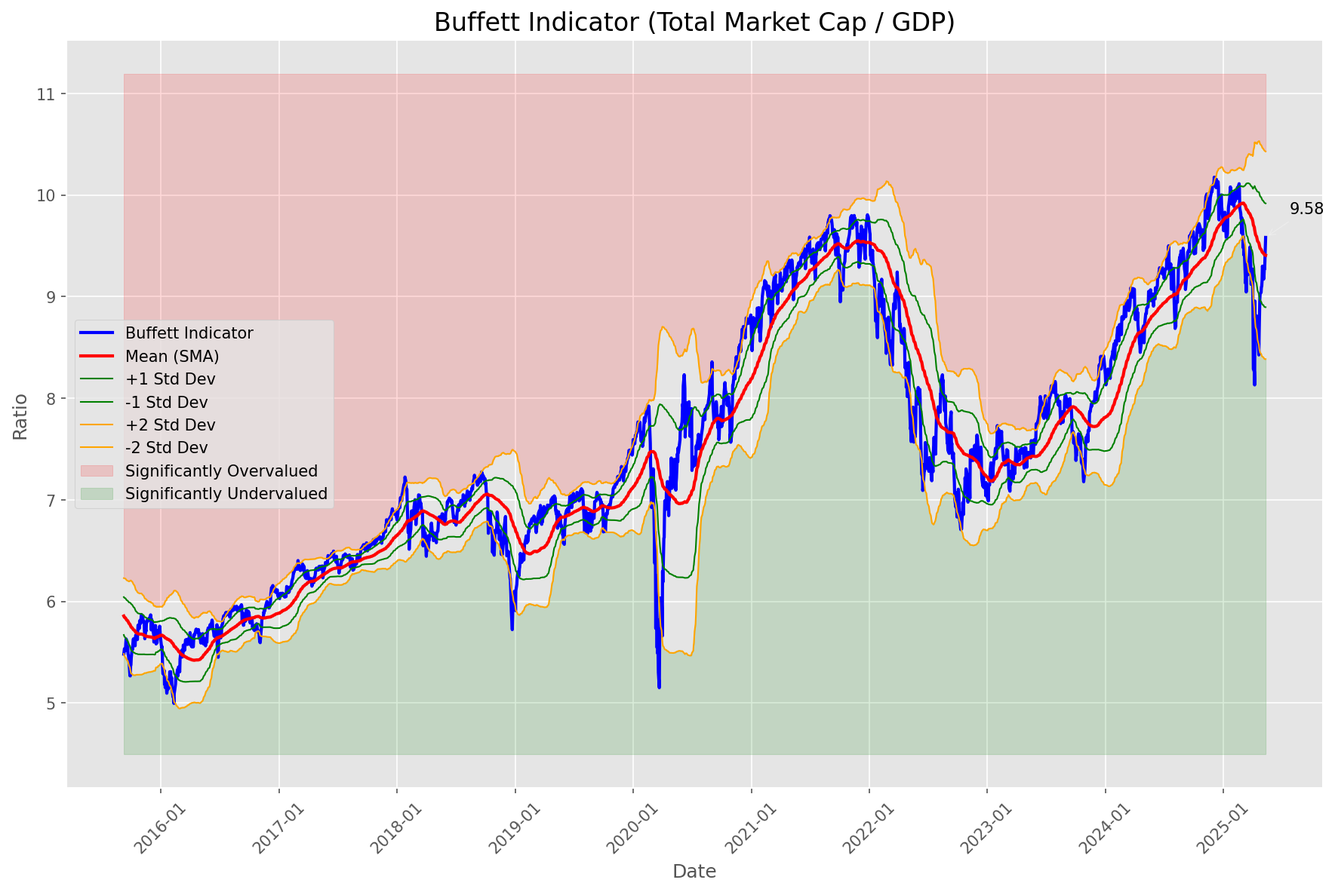
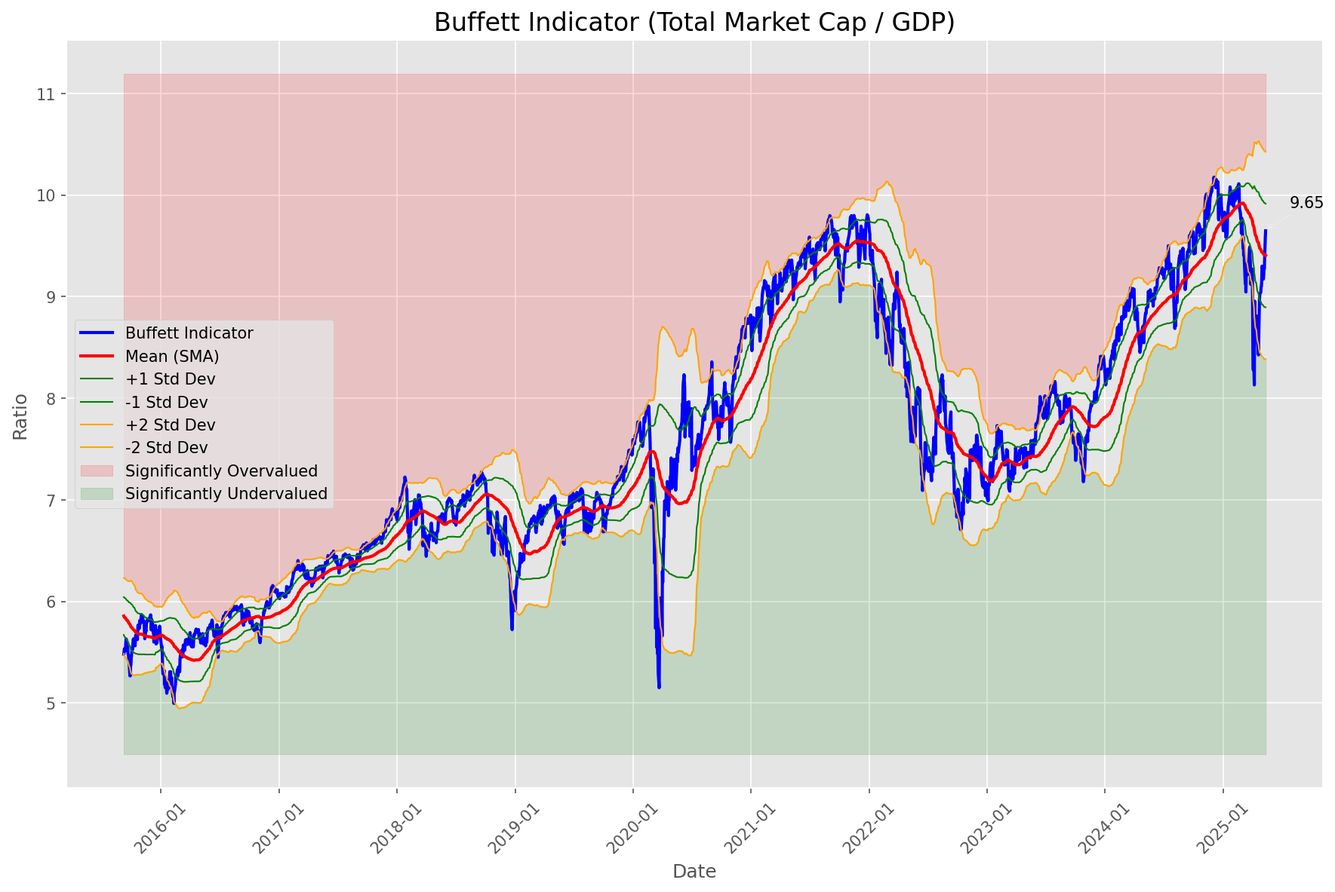
Add market report for 2025-05-14

diff --git a/oneil_relative_strength_report_2025-05-14.md b/oneil_relative_strength_report_2025-05-14.md
@@ -12,8 +12,8 @@
 | **Current Ratio** | 9.65 |
 | **Historical Mean** | 9.41 |
 | **Standard Deviation** | 0.51 |
-| **Z-Score (StdDev from Mean)** | 0.34 |
-| **Total Market Cap** | $289.22 trillion |
+| **Z-Score (StdDev from Mean)** | 0.48 |
+| **Total Market Cap** | $289.21 trillion |
 | **GDP** | $29.98 trillion |
 
 ## **Market Insights**
@@ -49,41 +49,41 @@ Based on William O'Neil's Relative Strength Methodology
 
 | ETF | Strength | RS Rating | Performance | Above Key MAs | Trend | Sector |
 |-----|----------|-----------|-------------|--------------|-------|--------|
-| [KWEB](https://www.tradingview.com/chart/?symbol=KWEB) | 91.0 | 82.0 | 5.67% | 10d ✓, 50d ✓, 200d ✓ | ↗ | Chinese Internet |
-| [SLV](https://www.tradingview.com/chart/?symbol=SLV) | 88.0 | 76.0 | 3.21% | 10d ✓, 50d ✓, 200d ✓ | ↗ | Silver |
+| [KWEB](https://www.tradingview.com/chart/?symbol=KWEB) | 89.0 | 78.0 | 3.82% | 10d ✓, 50d ✓, 200d ✓ | ↗ | Chinese Internet |
 | [XLI](https://www.tradingview.com/chart/?symbol=XLI) | 86.5 | 73.0 | 1.93% | 10d ✓, 50d ✓, 200d ✓ | ↗ | Industrial |
-| [GLD](https://www.tradingview.com/chart/?symbol=GLD) | 86.1 | 92.0 | 11.99% | 10d ✗, 50d ✓, 200d ✓ | ↗ | Gold |
-| [CIBR](https://www.tradingview.com/chart/?symbol=CIBR) | 84.0 | 68.0 | 0.60% | 10d ✓, 50d ✓, 200d ✓ | ↗ | Cybersecurity |
+| [GLD](https://www.tradingview.com/chart/?symbol=GLD) | 85.1 | 90.0 | 9.69% | 10d ✗, 50d ✓, 200d ✓ | ↗ | Gold |
+| [PAVE](https://www.tradingview.com/chart/?symbol=PAVE) | 84.0 | 68.0 | 0.58% | 10d ✓, 50d ✓, 200d ✓ | ↗ | Infrastructure |
 | [IYZ](https://www.tradingview.com/chart/?symbol=IYZ) | 83.5 | 67.0 | 0.32% | 10d ✓, 50d ✓, 200d ✓ | ↗ | Telecommunications |
-| [PAVE](https://www.tradingview.com/chart/?symbol=PAVE) | 81.0 | 62.0 | -0.43% | 10d ✓, 50d ✓, 200d ✓ | ↗ | Infrastructure |
-| [XLF](https://www.tradingview.com/chart/?symbol=XLF) | 80.0 | 60.0 | -0.89% | 10d ✓, 50d ✓, 200d ✓ | ↗ | Financial |
-| [AIQ](https://www.tradingview.com/chart/?symbol=AIQ) | 78.5 | 57.0 | -1.67% | 10d ✓, 50d ✓, 200d ✓ | ↗ | Artificial Intelligence & Technology |
-| [DBA](https://www.tradingview.com/chart/?symbol=DBA) | 78.0 | 56.0 | -1.83% | 10d ✓, 50d ✓, 200d ✓ | ↗ | Agriculture |
-| [ICLN](https://www.tradingview.com/chart/?symbol=ICLN) | 77.5 | 95.0 | 15.20% | 10d ✓, 50d ✓, 200d ✓ | ↘ | Clean Energy |
-| [BLOK](https://www.tradingview.com/chart/?symbol=BLOK) | 77.5 | 55.0 | -2.11% | 10d ✓, 50d ✓, 200d ✓ | ↗ | Blockchain & Cryptocurrency |
+| [CIBR](https://www.tradingview.com/chart/?symbol=CIBR) | 83.0 | 66.0 | 0.18% | 10d ✓, 50d ✓, 200d ✓ | ↗ | Cybersecurity |
+| [XLF](https://www.tradingview.com/chart/?symbol=XLF) | 80.0 | 60.0 | -0.95% | 10d ✓, 50d ✓, 200d ✓ | ↗ | Financial |
+| [BLOK](https://www.tradingview.com/chart/?symbol=BLOK) | 79.0 | 58.0 | -1.37% | 10d ✓, 50d ✓, 200d ✓ | ↗ | Blockchain & Cryptocurrency |
+| [AIQ](https://www.tradingview.com/chart/?symbol=AIQ) | 79.0 | 58.0 | -1.44% | 10d ✓, 50d ✓, 200d ✓ | ↗ | Artificial Intelligence & Technology |
+| [DBA](https://www.tradingview.com/chart/?symbol=DBA) | 78.5 | 57.0 | -1.83% | 10d ✓, 50d ✓, 200d ✓ | ↗ | Agriculture |
+| [ICLN](https://www.tradingview.com/chart/?symbol=ICLN) | 77.5 | 95.0 | 15.72% | 10d ✓, 50d ✓, 200d ✓ | ↘ | Clean Energy |
 | [ARKF](https://www.tradingview.com/chart/?symbol=ARKF) | 77.0 | 54.0 | -2.40% | 10d ✓, 50d ✓, 200d ✓ | ↗ | Fintech Innovation |
-| [XLC](https://www.tradingview.com/chart/?symbol=XLC) | 75.0 | 50.0 | -3.10% | 10d ✓, 50d ✓, 200d ✓ | ↗ | Communications |
-| [ARKW](https://www.tradingview.com/chart/?symbol=ARKW) | 74.0 | 48.0 | -3.42% | 10d ✓, 50d ✓, 200d ✓ | ↗ | Next Generation Internet |
-| [XLU](https://www.tradingview.com/chart/?symbol=XLU) | 73.6 | 67.0 | 0.33% | 10d ✗, 50d ✓, 200d ✓ | ↗ | Utilities |
-| [XLY](https://www.tradingview.com/chart/?symbol=XLY) | 73.0 | 46.0 | -3.80% | 10d ✓, 50d ✓, 200d ✓ | ↗ | Consumer Discretionary |
+| [XLC](https://www.tradingview.com/chart/?symbol=XLC) | 75.0 | 50.0 | -3.27% | 10d ✓, 50d ✓, 200d ✓ | ↗ | Communications |
+| [ARKW](https://www.tradingview.com/chart/?symbol=ARKW) | 74.5 | 49.0 | -3.42% | 10d ✓, 50d ✓, 200d ✓ | ↗ | Next Generation Internet |
+| [XLY](https://www.tradingview.com/chart/?symbol=XLY) | 74.0 | 48.0 | -3.48% | 10d ✓, 50d ✓, 200d ✓ | ↗ | Consumer Discretionary |
 | [IYT](https://www.tradingview.com/chart/?symbol=IYT) | 70.5 | 41.0 | -5.09% | 10d ✓, 50d ✓, 200d ✓ | ↗ | Transportation |
-| [ARKK](https://www.tradingview.com/chart/?symbol=ARKK) | 68.5 | 37.0 | -6.42% | 10d ✓, 50d ✓, 200d ✓ | ↗ | Innovation |
-| [JETS](https://www.tradingview.com/chart/?symbol=JETS) | 63.5 | 27.0 | -10.08% | 10d ✓, 50d ✓, 200d ✓ | ↗ | Airlines |
-| [XLK](https://www.tradingview.com/chart/?symbol=XLK) | 59.0 | 58.0 | -1.57% | 10d ✓, 50d ✓, 200d ✓ | ↘ | Technology |
-| [URA](https://www.tradingview.com/chart/?symbol=URA) | 56.5 | 53.0 | -2.66% | 10d ✓, 50d ✓, 200d ✓ | ↘ | Uranium |
-| [SOXX](https://www.tradingview.com/chart/?symbol=SOXX) | 56.0 | 52.0 | -2.79% | 10d ✓, 50d ✓, 200d ✓ | ↘ | Semiconductors |
-| [IYR](https://www.tradingview.com/chart/?symbol=IYR) | 54.9 | 50.0 | -3.08% | 10d ✗, 50d ✓, 200d ✗ | ↗ | Real Estate |
-| [XLP](https://www.tradingview.com/chart/?symbol=XLP) | 50.0 | 60.0 | -0.83% | 10d ✗, 50d ✗, 200d ✗ | ↗ | Consumer Staples |
-| [XLB](https://www.tradingview.com/chart/?symbol=XLB) | 43.8 | 48.0 | -3.55% | 10d ✓, 50d ✓, 200d ✗ | ↘ | Materials |
+| [XLU](https://www.tradingview.com/chart/?symbol=XLU) | 70.1 | 60.0 | -0.94% | 10d ✗, 50d ✓, 200d ✓ | ↗ | Utilities |
+| [ARKK](https://www.tradingview.com/chart/?symbol=ARKK) | 66.5 | 33.0 | -8.06% | 10d ✓, 50d ✓, 200d ✓ | ↗ | Innovation |
+| [SLV](https://www.tradingview.com/chart/?symbol=SLV) | 63.2 | 66.0 | 0.10% | 10d ✗, 50d ✗, 200d ✓ | ↗ | Silver |
+| [JETS](https://www.tradingview.com/chart/?symbol=JETS) | 63.0 | 26.0 | -10.44% | 10d ✓, 50d ✓, 200d ✓ | ↗ | Airlines |
+| [XLK](https://www.tradingview.com/chart/?symbol=XLK) | 60.0 | 60.0 | -0.95% | 10d ✓, 50d ✓, 200d ✓ | ↘ | Technology |
+| [SOXX](https://www.tradingview.com/chart/?symbol=SOXX) | 56.5 | 53.0 | -2.73% | 10d ✓, 50d ✓, 200d ✓ | ↘ | Semiconductors |
+| [URA](https://www.tradingview.com/chart/?symbol=URA) | 55.0 | 50.0 | -3.14% | 10d ✓, 50d ✓, 200d ✓ | ↘ | Uranium |
+| [XLP](https://www.tradingview.com/chart/?symbol=XLP) | 49.5 | 59.0 | -1.20% | 10d ✗, 50d ✗, 200d ✗ | ↗ | Consumer Staples |
+| [IYR](https://www.tradingview.com/chart/?symbol=IYR) | 45.0 | 50.0 | -3.22% | 10d ✗, 50d ✗, 200d ✗ | ↗ | Real Estate |
+| [XLB](https://www.tradingview.com/chart/?symbol=XLB) | 42.8 | 46.0 | -4.05% | 10d ✓, 50d ✓, 200d ✗ | ↘ | Materials |
 | [BIL](https://www.tradingview.com/chart/?symbol=BIL) | 42.4 | 65.0 | 0.03% | 10d ✓, 50d ✗, 200d ✗ | ↘ | Short-term Treasuries |
 | [DBC](https://www.tradingview.com/chart/?symbol=DBC) | 41.8 | 44.0 | -4.34% | 10d ✓, 50d ✓, 200d ✗ | ↘ | Commodities |
-| [XLE](https://www.tradingview.com/chart/?symbol=XLE) | 38.8 | 38.0 | -6.00% | 10d ✓, 50d ✓, 200d ✗ | ↘ | Energy |
-| [ITB](https://www.tradingview.com/chart/?symbol=ITB) | 37.3 | 35.0 | -7.25% | 10d ✓, 50d ✓, 200d ✗ | ↘ | Home Construction |
-| [UUP](https://www.tradingview.com/chart/?symbol=UUP) | 29.9 | 40.0 | -5.47% | 10d ✓, 50d ✗, 200d ✗ | ↘ | U.S. Dollar |
-| [ARKG](https://www.tradingview.com/chart/?symbol=ARKG) | 27.3 | 15.0 | -16.06% | 10d ✓, 50d ✓, 200d ✗ | ↘ | Genomics |
-| [TLT](https://www.tradingview.com/chart/?symbol=TLT) | 25.5 | 51.0 | -2.87% | 10d ✗, 50d ✗, 200d ✗ | ↘ | Long-term Treasuries |
-| [XLV](https://www.tradingview.com/chart/?symbol=XLV) | 14.0 | 28.0 | -9.70% | 10d ✗, 50d ✗, 200d ✗ | ↘ | Healthcare |
-| [IBB](https://www.tradingview.com/chart/?symbol=IBB) | 12.5 | 25.0 | -10.96% | 10d ✗, 50d ✗, 200d ✗ | ↘ | Biotechnology |
+| [ITB](https://www.tradingview.com/chart/?symbol=ITB) | 38.3 | 37.0 | -6.52% | 10d ✓, 50d ✓, 200d ✗ | ↘ | Home Construction |
+| [XLE](https://www.tradingview.com/chart/?symbol=XLE) | 31.9 | 44.0 | -4.30% | 10d ✓, 50d ✗, 200d ✗ | ↘ | Energy |
+| [UUP](https://www.tradingview.com/chart/?symbol=UUP) | 29.4 | 39.0 | -5.76% | 10d ✓, 50d ✗, 200d ✗ | ↘ | U.S. Dollar |
+| [TLT](https://www.tradingview.com/chart/?symbol=TLT) | 28.5 | 57.0 | -1.69% | 10d ✗, 50d ✗, 200d ✗ | ↘ | Long-term Treasuries |
+| [ARKG](https://www.tradingview.com/chart/?symbol=ARKG) | 25.8 | 12.0 | -18.75% | 10d ✓, 50d ✓, 200d ✗ | ↘ | Genomics |
+| [XLV](https://www.tradingview.com/chart/?symbol=XLV) | 13.5 | 27.0 | -9.99% | 10d ✗, 50d ✗, 200d ✗ | ↘ | Healthcare |
+| [IBB](https://www.tradingview.com/chart/?symbol=IBB) | 10.5 | 21.0 | -12.48% | 10d ✗, 50d ✗, 200d ✗ | ↘ | Biotechnology |
 
 ### **Sector ETF Performance Interpretation**
 
@@ -98,165 +98,196 @@ This table shows the relative strength metrics for different market sectors base
 
 ### **Current Sector Leadership**
 
-The current market leadership is coming from the following sectors: **Chinese Internet, Silver, Industrial**.
+The current market leadership is coming from the following sectors: **Chinese Internet, Industrial, Gold**.
 
-The **Chinese Internet** sector (represented by **KWEB**) is showing particularly strong relative strength with an RS rating of 82.0 and performance of 5.67% vs. the S&P 500. This sector is trading above its 10-day, 50-day, 200-day moving average(s). Investors should consider focusing on high RS stocks within these leading sectors for potential outperformance.
+The **Chinese Internet** sector (represented by **KWEB**) is showing particularly strong relative strength with an RS rating of 78.0 and performance of 3.82% vs. the S&P 500. This sector is trading above its 10-day, 50-day, 200-day moving average(s). Investors should consider focusing on high RS stocks within these leading sectors for potential outperformance.
 
 ---
 
 ## **Buy Recommendations**
 
-The following 80 stocks show exceptional relative strength:
+The following 81 stocks show exceptional relative strength:
 
 | RS Rating | Buy Score | Current Price | Chart | Name | Ticker |
 |-----------|-----------|---------------|-------|------|--------|
-| 100 | 100 | $156.71 | [Chart](https://www.tradingview.com/chart/?symbol=NRG) | NRG Energy, Inc. | NRG |
-| 100 | 100 | $27.51 | [Chart](https://www.tradingview.com/chart/?symbol=DB) | Deutsche Bank Aktiengesellschaft | DB |
+| 100 | 100 | $44.33 | [Chart](https://www.tradingview.com/chart/?symbol=EXEL) | Exelixis Inc | EXEL |
 | 100 | 100 | $48.33 | [Chart](https://www.tradingview.com/chart/?symbol=MRX) | Marex Group plc Ordinary Shares | MRX |
-| 100 | 100 | $155.68 | [Chart](https://www.tradingview.com/chart/?symbol=PLMR) | Palomar Holdings, Inc. Common stock | PLMR |
+| 100 | 100 | $42.27 | [Chart](https://www.tradingview.com/chart/?symbol=FARO) | Faro Technologies Inc | FARO |
+| 100 | 100 | $91.88 | [Chart](https://www.tradingview.com/chart/?symbol=SEZL) | Sezzle Inc. Common Stock | SEZL |
 | 100 | 100 | $19.54 | [Chart](https://www.tradingview.com/chart/?symbol=SPNT) | SiriusPoint Ltd. | SPNT |
-| 100 | 100 | $90.54 | [Chart](https://www.tradingview.com/chart/?symbol=SEZL) | Sezzle Inc. Common Stock | SEZL |
 | 100 | 100 | $181.76 | [Chart](https://www.tradingview.com/chart/?symbol=DAVE) | Dave Inc. Class A Common Stock | DAVE |
+| 100 | 100 | $27.66 | [Chart](https://www.tradingview.com/chart/?symbol=DB) | Deutsche Bank Aktiengesellschaft | DB |
+| 100 | 100 | $155.68 | [Chart](https://www.tradingview.com/chart/?symbol=PLMR) | Palomar Holdings, Inc. Common stock | PLMR |
+| 100 | 100 | $155.01 | [Chart](https://www.tradingview.com/chart/?symbol=NRG) | NRG Energy, Inc. | NRG |
 | 100 | 100 | $23.00 | [Chart](https://www.tradingview.com/chart/?symbol=PRA) | ProAssurance Corporation | PRA |
-| 99 | 100 | $23.65 | [Chart](https://www.tradingview.com/chart/?symbol=CRK) | Comstock Resources, Inc. | CRK |
-| 99 | 100 | $150.24 | [Chart](https://www.tradingview.com/chart/?symbol=ROOT) | Root, Inc. Class A Common Stock | ROOT |
-| 99 | 100 | $71.14 | [Chart](https://www.tradingview.com/chart/?symbol=ULS) | UL Solutions Inc. | ULS |
+| 99 | 100 | $419.17 | [Chart](https://www.tradingview.com/chart/?symbol=MSTR) | MicroStrategy Inc | MSTR |
+| 99 | 100 | $23.34 | [Chart](https://www.tradingview.com/chart/?symbol=CRK) | Comstock Resources, Inc. | CRK |
 | 99 | 100 | $34.63 | [Chart](https://www.tradingview.com/chart/?symbol=AHR) | American Healthcare REIT, Inc. | AHR |
-| 99 | 100 | $421.61 | [Chart](https://www.tradingview.com/chart/?symbol=MSTR) | MicroStrategy Inc | MSTR |
+| 99 | 100 | $71.14 | [Chart](https://www.tradingview.com/chart/?symbol=ULS) | UL Solutions Inc. | ULS |
 | 99 | 100 | $23.83 | [Chart](https://www.tradingview.com/chart/?symbol=GRND) | Grindr Inc. | GRND |
-| 98 | 100 | $224.52 | [Chart](https://www.tradingview.com/chart/?symbol=CRS) | Carpenter Technology Corp | CRS |
-| 98 | 100 | $41.15 | [Chart](https://www.tradingview.com/chart/?symbol=EWP) | iShares MSCI Spain ETF | EWP |
-| 98 | 100 | $38.17 | [Chart](https://www.tradingview.com/chart/?symbol=PAY) | Paymentus Holdings, Inc. | PAY |
-| 98 | 100 | $158.30 | [Chart](https://www.tradingview.com/chart/?symbol=HWM) | Howmet Aerospace Inc. | HWM |
+| 98 | 100 | $229.29 | [Chart](https://www.tradingview.com/chart/?symbol=CRS) | Carpenter Technology Corp | CRS |
+| 98 | 100 | $145.72 | [Chart](https://www.tradingview.com/chart/?symbol=ROOT) | Root, Inc. Class A Common Stock | ROOT |
 | 98 | 100 | $132.54 | [Chart](https://www.tradingview.com/chart/?symbol=VSEC) | VSE Corp | VSEC |
+| 98 | 100 | $160.65 | [Chart](https://www.tradingview.com/chart/?symbol=SE) | Sea Limited American Depositary Shares, each representing one Class A Ordinary Share | SE |
+| 98 | 100 | $159.14 | [Chart](https://www.tradingview.com/chart/?symbol=HWM) | Howmet Aerospace Inc. | HWM |
+| 98 | 100 | $78.50 | [Chart](https://www.tradingview.com/chart/?symbol=RBLX) | Roblox Corporation | RBLX |
+| 97 | 100 | $41.15 | [Chart](https://www.tradingview.com/chart/?symbol=EWP) | iShares MSCI Spain ETF | EWP |
+| 97 | 100 | $38.17 | [Chart](https://www.tradingview.com/chart/?symbol=PAY) | Paymentus Holdings, Inc. | PAY |
 | 97 | 100 | $127.55 | [Chart](https://www.tradingview.com/chart/?symbol=ATGE) | Adtalem Global Education Inc. Common Shares | ATGE |
-| 97 | 100 | $154.13 | [Chart](https://www.tradingview.com/chart/?symbol=SE) | Sea Limited American Depositary Shares, each representing one Class A Ordinary Share | SE |
 | 97 | 100 | $128.35 | [Chart](https://www.tradingview.com/chart/?symbol=COOP) | Mr. Cooper Group Inc. Common Stock | COOP |
-| 96 | 100 | $62.57 | [Chart](https://www.tradingview.com/chart/?symbol=HOOD) | Robinhood Markets, Inc. Class A Common Stock | HOOD |
 | 96 | 100 | $117.61 | [Chart](https://www.tradingview.com/chart/?symbol=EHC) | Encompass Health Corporation Common Stock | EHC |
-| 96 | 100 | $49.40 | [Chart](https://www.tradingview.com/chart/?symbol=ERJ) | Embraer S.A. | ERJ |
-| 96 | 100 | $30.81 | [Chart](https://www.tradingview.com/chart/?symbol=EUFN) | iShares MSCI Europe Financials ETF | EUFN |
-| 96 | 100 | $77.02 | [Chart](https://www.tradingview.com/chart/?symbol=RBLX) | Roblox Corporation | RBLX |
+| 96 | 100 | $32.24 | [Chart](https://www.tradingview.com/chart/?symbol=UTI) | Universal Technical Institute, Inc. | UTI |
+| 96 | 100 | $31.05 | [Chart](https://www.tradingview.com/chart/?symbol=EUFN) | iShares MSCI Europe Financials ETF | EUFN |
 | 95 | 100 | $28.00 | [Chart](https://www.tradingview.com/chart/?symbol=FMS) | Fresenius Medical Care AG | FMS |
-| 95 | 100 | $33.70 | [Chart](https://www.tradingview.com/chart/?symbol=SLM) | SLM Corporation | SLM |
-| 94 | 100 | $87.50 | [Chart](https://www.tradingview.com/chart/?symbol=TGLS) | Tecnoglass Inc. | TGLS |
+| 95 | 100 | $25.20 | [Chart](https://www.tradingview.com/chart/?symbol=SONY) | Sony Group Corporation American Depositary Shares (Each Representing One Share of Dollar Validated Common Stock) | SONY |
+| 94 | 100 | $33.65 | [Chart](https://www.tradingview.com/chart/?symbol=SLM) | SLM Corporation | SLM |
 | 94 | 100 | $40.59 | [Chart](https://www.tradingview.com/chart/?symbol=EWG) | iShares MSCI Germany ETF | EWG |
-| 94 | 100 | $128.10 | [Chart](https://www.tradingview.com/chart/?symbol=PLTR) | Palantir Technologies Inc. Class A Common Stock | PLTR |
-| 94 | 100 | $18.43 | [Chart](https://www.tradingview.com/chart/?symbol=AM) | Antero Midstream Corporation Common Stock | AM |
-| 94 | 100 | $83.10 | [Chart](https://www.tradingview.com/chart/?symbol=RBRK) | Rubrik, Inc. | RBRK |
 | 94 | 100 | $40.91 | [Chart](https://www.tradingview.com/chart/?symbol=AB) | AllianceBernstein Holding, L.P. | AB |
+| 94 | 100 | $307.15 | [Chart](https://www.tradingview.com/chart/?symbol=CVNA) | Carvana Co. | CVNA |
+| 94 | 100 | $79.67 | [Chart](https://www.tradingview.com/chart/?symbol=LB) | LandBridge Company LLC | LB |
+| 93 | 100 | $44.62 | [Chart](https://www.tradingview.com/chart/?symbol=TOST) | Toast, Inc. | TOST |
+| 93 | 100 | $62.90 | [Chart](https://www.tradingview.com/chart/?symbol=HOOD) | Robinhood Markets, Inc. Class A Common Stock | HOOD |
 | 93 | 100 | $22.47 | [Chart](https://www.tradingview.com/chart/?symbol=LAUR) | Laureate Education, Inc. Common Stock | LAUR |
-| 93 | 100 | $1138.44 | [Chart](https://www.tradingview.com/chart/?symbol=NFLX) | NetFlix Inc | NFLX |
+| 93 | 100 | $83.46 | [Chart](https://www.tradingview.com/chart/?symbol=TGLS) | Tecnoglass Inc. | TGLS |
 | 93 | 100 | $61.28 | [Chart](https://www.tradingview.com/chart/?symbol=CHEF) | The Chef's Warehouse Inc | CHEF |
-| 93 | 100 | $31.67 | [Chart](https://www.tradingview.com/chart/?symbol=UTI) | Universal Technical Institute, Inc. | UTI |
-| 92 | 100 | $46.05 | [Chart](https://www.tradingview.com/chart/?symbol=QFIN) | Qifu Technology, Inc. American Depositary Shares | QFIN |
-| 92 | 100 | $17.00 | [Chart](https://www.tradingview.com/chart/?symbol=BCS) | Barclays PLC | BCS |
-| 92 | 100 | $24.65 | [Chart](https://www.tradingview.com/chart/?symbol=BSAC) | Banco Santander-Chile | BSAC |
+| 92 | 100 | $1151.02 | [Chart](https://www.tradingview.com/chart/?symbol=NFLX) | NetFlix Inc | NFLX |
+| 92 | 100 | $298.70 | [Chart](https://www.tradingview.com/chart/?symbol=PEN) | Penumbra, Inc. | PEN |
+| 92 | 100 | $17.13 | [Chart](https://www.tradingview.com/chart/?symbol=BCS) | Barclays PLC | BCS |
 | 92 | 100 | $104.72 | [Chart](https://www.tradingview.com/chart/?symbol=RBA) | RB Global, Inc. | RBA |
+| 92 | 100 | $24.65 | [Chart](https://www.tradingview.com/chart/?symbol=BSAC) | Banco Santander-Chile | BSAC |
+| 91 | 100 | $29.67 | [Chart](https://www.tradingview.com/chart/?symbol=HODL) | VanEck Bitcoin ETF | HODL |
 | 91 | 100 | $314.46 | [Chart](https://www.tradingview.com/chart/?symbol=PODD) | Insulet Corporation | PODD |
-| 91 | 100 | $78.95 | [Chart](https://www.tradingview.com/chart/?symbol=LB) | LandBridge Company LLC | LB |
-| 90 | 100 | $296.05 | [Chart](https://www.tradingview.com/chart/?symbol=PEN) | Penumbra, Inc. | PEN |
-| 90 | 100 | $31.31 | [Chart](https://www.tradingview.com/chart/?symbol=PRDO) | Perdoceo Education Corporation | PRDO |
+| 91 | 100 | $31.31 | [Chart](https://www.tradingview.com/chart/?symbol=PRDO) | Perdoceo Education Corporation | PRDO |
+| 91 | 100 | $129.88 | [Chart](https://www.tradingview.com/chart/?symbol=PLTR) | Palantir Technologies Inc. Class A Common Stock | PLTR |
 | 90 | 100 | $52.36 | [Chart](https://www.tradingview.com/chart/?symbol=EPR) | EPR Properties | EPR |
-| 89 | 100 | $43.96 | [Chart](https://www.tradingview.com/chart/?symbol=TOST) | Toast, Inc. | TOST |
-| 89 | 100 | $95.18 | [Chart](https://www.tradingview.com/chart/?symbol=HEES) | H&E Equipment Services, Inc. | HEES |
-| 89 | 100 | $23.33 | [Chart](https://www.tradingview.com/chart/?symbol=SRAD) | Sportradar Group AG Class A Ordinary Shares | SRAD |
-| 88 | 100 | $25.21 | [Chart](https://www.tradingview.com/chart/?symbol=EWS) | iShares MSCI Singapore ETF | EWS |
-| 90 | 99 | $59.62 | [Chart](https://www.tradingview.com/chart/?symbol=IBIT) | iShares Bitcoin Trust ETF | IBIT |
-| 90 | 99 | $29.67 | [Chart](https://www.tradingview.com/chart/?symbol=HODL) | VanEck Bitcoin ETF | HODL |
-| 89 | 99 | $70.23 | [Chart](https://www.tradingview.com/chart/?symbol=BROS) | Dutch Bros Inc. | BROS |
-| 87 | 99 | $724.77 | [Chart](https://www.tradingview.com/chart/?symbol=AXON) | Axon Enterprise, Inc. Common Stock | AXON |
-| 88 | 98 | $13.37 | [Chart](https://www.tradingview.com/chart/?symbol=CNH) | CNH INDUSTRIAL N.V. | CNH |
+| 90 | 100 | $95.18 | [Chart](https://www.tradingview.com/chart/?symbol=HEES) | H&E Equipment Services, Inc. | HEES |
+| 90 | 100 | $70.94 | [Chart](https://www.tradingview.com/chart/?symbol=BROS) | Dutch Bros Inc. | BROS |
+| 89 | 100 | $227.50 | [Chart](https://www.tradingview.com/chart/?symbol=TTWO) | Take-Two Interactive Software Inc | TTWO |
+| 89 | 100 | $23.68 | [Chart](https://www.tradingview.com/chart/?symbol=BTSG) | BrightSpring Health Services, Inc. Common Stock | BTSG |
+| 89 | 100 | $23.57 | [Chart](https://www.tradingview.com/chart/?symbol=SRAD) | Sportradar Group AG Class A Ordinary Shares | SRAD |
+| 88 | 100 | $25.25 | [Chart](https://www.tradingview.com/chart/?symbol=EWS) | iShares MSCI Singapore ETF | EWS |
+| 88 | 100 | $724.77 | [Chart](https://www.tradingview.com/chart/?symbol=AXON) | Axon Enterprise, Inc. Common Stock | AXON |
+| 88 | 99 | $67.16 | [Chart](https://www.tradingview.com/chart/?symbol=CTVA) | Corteva, Inc. Common Stock | CTVA |
+| 86 | 99 | $222.40 | [Chart](https://www.tradingview.com/chart/?symbol=IDCC) | InterDigital, Inc. | IDCC |
 | 87 | 98 | $206.47 | [Chart](https://www.tradingview.com/chart/?symbol=BAP) | Credicorp LTD | BAP |
-| 87 | 98 | $293.06 | [Chart](https://www.tradingview.com/chart/?symbol=CVNA) | Carvana Co. | CVNA |
-| 85 | 98 | $222.40 | [Chart](https://www.tradingview.com/chart/?symbol=IDCC) | InterDigital, Inc. | IDCC |
-| 86 | 97 | $67.90 | [Chart](https://www.tradingview.com/chart/?symbol=CTVA) | Corteva, Inc. Common Stock | CTVA |
-| 85 | 97 | $195.09 | [Chart](https://www.tradingview.com/chart/?symbol=LOPE) | Grand Canyon Education, Inc | LOPE |
-| 87 | 96 | $54.70 | [Chart](https://www.tradingview.com/chart/?symbol=MCHI) | iShares MSCI China ETF | MCHI |
+| 87 | 98 | $203.37 | [Chart](https://www.tradingview.com/chart/?symbol=DFS) | Discover Financial Services | DFS |
+| 86 | 98 | $195.09 | [Chart](https://www.tradingview.com/chart/?symbol=LOPE) | Grand Canyon Education, Inc | LOPE |
+| 86 | 98 | $83.08 | [Chart](https://www.tradingview.com/chart/?symbol=RBRK) | Rubrik, Inc. | RBRK |
+| 86 | 97 | $56.12 | [Chart](https://www.tradingview.com/chart/?symbol=EQT) | EQT CORP | EQT |
+| 84 | 97 | $45.70 | [Chart](https://www.tradingview.com/chart/?symbol=QFIN) | Qifu Technology, Inc. American Depositary Shares | QFIN |
 | 86 | 96 | $5262.42 | [Chart](https://www.tradingview.com/chart/?symbol=BKNG) | Booking Holdings Inc. Common Stock | BKNG |
-| 86 | 96 | $17.43 | [Chart](https://www.tradingview.com/chart/?symbol=MIR) | Mirion Technologies, Inc. | MIR |
-| 84 | 96 | $58.34 | [Chart](https://www.tradingview.com/chart/?symbol=HSBC) | HSBC Holdings PLC | HSBC |
-| 86 | 95 | $96.06 | [Chart](https://www.tradingview.com/chart/?symbol=JCI) | Johnson Controls International plc | JCI |
-| 85 | 95 | $35.74 | [Chart](https://www.tradingview.com/chart/?symbol=FXI) | iShares China Large-Cap ETF | FXI |
-| 84 | 94 | $62.47 | [Chart](https://www.tradingview.com/chart/?symbol=GGAL) | Grupo Financiero Galicia SA | GGAL |
+| 84 | 96 | $207.19 | [Chart](https://www.tradingview.com/chart/?symbol=DRI) | Darden Restaurants, Inc. | DRI |
+| 85 | 95 | $17.49 | [Chart](https://www.tradingview.com/chart/?symbol=MIR) | Mirion Technologies, Inc. | MIR |
+| 85 | 95 | $62.47 | [Chart](https://www.tradingview.com/chart/?symbol=GGAL) | Grupo Financiero Galicia SA | GGAL |
+| 85 | 95 | $13.16 | [Chart](https://www.tradingview.com/chart/?symbol=MUFG) | Mitsubishi UFJ Financial Group, Inc. | MUFG |
+| 84 | 95 | $74.28 | [Chart](https://www.tradingview.com/chart/?symbol=USFD) | US Foods Holding Corp. | USFD |
+| 84 | 94 | $58.66 | [Chart](https://www.tradingview.com/chart/?symbol=BAM) | Brookfield Asset Management Ltd. | BAM |
 | 83 | 94 | $166.94 | [Chart](https://www.tradingview.com/chart/?symbol=ITA) | iShares U.S. Aerospace & Defense ETF | ITA |
-| 83 | 94 | $73.84 | [Chart](https://www.tradingview.com/chart/?symbol=USFD) | US Foods Holding Corp. | USFD |
-| 83 | 94 | $221.58 | [Chart](https://www.tradingview.com/chart/?symbol=GE) | GE Aerospace | GE |
-| 82 | 94 | $31.20 | [Chart](https://www.tradingview.com/chart/?symbol=AS) | Amer Sports, Inc. | AS |
-| 82 | 94 | $205.00 | [Chart](https://www.tradingview.com/chart/?symbol=DRI) | Darden Restaurants, Inc. | DRI |
-| 82 | 93 | $23.24 | [Chart](https://www.tradingview.com/chart/?symbol=BTSG) | BrightSpring Health Services, Inc. Common Stock | BTSG |
+| 84 | 93 | $58.73 | [Chart](https://www.tradingview.com/chart/?symbol=IBIT) | iShares Bitcoin Trust ETF | IBIT |
+| 83 | 93 | $36.24 | [Chart](https://www.tradingview.com/chart/?symbol=FXI) | iShares China Large-Cap ETF | FXI |
+| 83 | 93 | $13.30 | [Chart](https://www.tradingview.com/chart/?symbol=CNH) | CNH INDUSTRIAL N.V. | CNH |
+| 82 | 93 | $221.19 | [Chart](https://www.tradingview.com/chart/?symbol=GE) | GE Aerospace | GE |
+| 81 | 93 | $58.01 | [Chart](https://www.tradingview.com/chart/?symbol=HSBC) | HSBC Holdings PLC | HSBC |
 | 82 | 92 | $57.13 | [Chart](https://www.tradingview.com/chart/?symbol=IGF) | iShares Global Infrastructure ETF | IGF |
 | 82 | 91 | $22.33 | [Chart](https://www.tradingview.com/chart/?symbol=KAR) | OPENLANE, Inc | KAR |
 | 82 | 91 | $29.70 | [Chart](https://www.tradingview.com/chart/?symbol=TGS) | Transportadora de Gas del Sur S.A. ADS | TGS |
-| 80 | 90 | $13.02 | [Chart](https://www.tradingview.com/chart/?symbol=MUFG) | Mitsubishi UFJ Financial Group, Inc. | MUFG |
-| 80 | 90 | $58.32 | [Chart](https://www.tradingview.com/chart/?symbol=BAM) | Brookfield Asset Management Ltd. | BAM |
 
 ---
 
 
 ## **Sell Recommendations**
 
-The following 57 stocks show deteriorating relative strength:
+The following 87 stocks show deteriorating relative strength:
 
 | RS Rating | Sell Score | Current Price | Chart | Name | Ticker |
 |-----------|------------|---------------|-------|------|--------|
 | 1 | 100 | $10.18 | [Chart](https://www.tradingview.com/chart/?symbol=NRIX) | Nurix Therapeutics, Inc. Common stock | NRIX |
-| 1 | 100 | $19.51 | [Chart](https://www.tradingview.com/chart/?symbol=BHVN) | Biohaven Ltd. | BHVN |
-| 3 | 100 | $29.93 | [Chart](https://www.tradingview.com/chart/?symbol=CRTO) | Criteo S.A. | CRTO |
+| 1 | 100 | $18.96 | [Chart](https://www.tradingview.com/chart/?symbol=BHVN) | Biohaven Ltd. | BHVN |
+| 2 | 100 | $23.61 | [Chart](https://www.tradingview.com/chart/?symbol=JANX) | Janux Therapeutics, Inc. Common Stock | JANX |
+| 3 | 100 | $32.31 | [Chart](https://www.tradingview.com/chart/?symbol=AAP) | ADVANCE AUTO PARTS INC | AAP |
 | 3 | 100 | $11.86 | [Chart](https://www.tradingview.com/chart/?symbol=ARCT) | Arcturus Therapeutics Holdings Inc. Common Stock | ARCT |
-| 4 | 100 | $32.29 | [Chart](https://www.tradingview.com/chart/?symbol=TWST) | Twist Bioscience Corporation Common Stock | TWST |
-| 4 | 100 | $13.31 | [Chart](https://www.tradingview.com/chart/?symbol=FL) | Foot Locker, Inc. | FL |
+| 3 | 100 | $13.04 | [Chart](https://www.tradingview.com/chart/?symbol=FL) | Foot Locker, Inc. | FL |
+| 4 | 100 | $31.31 | [Chart](https://www.tradingview.com/chart/?symbol=TWST) | Twist Bioscience Corporation Common Stock | TWST |
+| 4 | 100 | $30.09 | [Chart](https://www.tradingview.com/chart/?symbol=CRTO) | Criteo S.A. | CRTO |
 | 4 | 100 | $10.30 | [Chart](https://www.tradingview.com/chart/?symbol=HPK) | HighPeak Energy, Inc. Common Stock | HPK |
 | 5 | 100 | $27.82 | [Chart](https://www.tradingview.com/chart/?symbol=SRDX) | Surmodics, Inc. Common Stock | SRDX |
 | 5 | 100 | $18.69 | [Chart](https://www.tradingview.com/chart/?symbol=VRNT) | Verint Systems Inc | VRNT |
-| 5 | 100 | $33.23 | [Chart](https://www.tradingview.com/chart/?symbol=AAP) | ADVANCE AUTO PARTS INC | AAP |
-| 5 | 100 | $12.64 | [Chart](https://www.tradingview.com/chart/?symbol=LBRT) | Liberty Energy Inc. | LBRT |
+| 5 | 100 | $30.37 | [Chart](https://www.tradingview.com/chart/?symbol=CYTK) | Cytokinetics Inc. | CYTK |
+| 6 | 100 | $12.58 | [Chart](https://www.tradingview.com/chart/?symbol=LBRT) | Liberty Energy Inc. | LBRT |
 | 6 | 100 | $126.80 | [Chart](https://www.tradingview.com/chart/?symbol=TFX) | Teleflex Incorporated | TFX |
-| 6 | 100 | $30.61 | [Chart](https://www.tradingview.com/chart/?symbol=CYTK) | Cytokinetics Inc. | CYTK |
+| 6 | 100 | $16.01 | [Chart](https://www.tradingview.com/chart/?symbol=PENN) | PENN Entertainment, Inc. Common Stock | PENN |
 | 6 | 100 | $14.02 | [Chart](https://www.tradingview.com/chart/?symbol=IMVT) | Immunovant, Inc. Common Stock | IMVT |
+| 10 | 100 | $18.99 | [Chart](https://www.tradingview.com/chart/?symbol=NVDS) | Investment Managers Series Trust II Tradr 1.5X Short NVDA Daily ETF | NVDS |
 | 11 | 100 | $47.69 | [Chart](https://www.tradingview.com/chart/?symbol=RHI) | Robert Half Inc. | RHI |
-| 15 | 100 | $10.34 | [Chart](https://www.tradingview.com/chart/?symbol=CMRE) | Costamare Inc. | CMRE |
-| 16 | 100 | $19.61 | [Chart](https://www.tradingview.com/chart/?symbol=NVDS) | Investment Managers Series Trust II Tradr 1.5X Short NVDA Daily ETF | NVDS |
-| 16 | 100 | $12.72 | [Chart](https://www.tradingview.com/chart/?symbol=MED) | Medifast, Inc. | MED |
-| 5 | 99 | $26.79 | [Chart](https://www.tradingview.com/chart/?symbol=TRN) | Trinity Industries, Inc. | TRN |
+| 14 | 100 | $10.34 | [Chart](https://www.tradingview.com/chart/?symbol=CMRE) | Costamare Inc. | CMRE |
+| 15 | 100 | $12.72 | [Chart](https://www.tradingview.com/chart/?symbol=MED) | Medifast, Inc. | MED |
+| 19 | 100 | $10.18 | [Chart](https://www.tradingview.com/chart/?symbol=LBTYK) | Liberty Global Ltd. Class C Common Shares | LBTYK |
 | 5 | 99 | $10.31 | [Chart](https://www.tradingview.com/chart/?symbol=VREX) | Varex Imaging Corporation Common Stock | VREX |
-| 8 | 98 | $32.92 | [Chart](https://www.tradingview.com/chart/?symbol=MBIN) | Merchants Bancorp Common Stock | MBIN |
+| 5 | 99 | $26.79 | [Chart](https://www.tradingview.com/chart/?symbol=TRN) | Trinity Industries, Inc. | TRN |
 | 4 | 97 | $10.78 | [Chart](https://www.tradingview.com/chart/?symbol=LSPD) | Lightspeed Commerce Inc. | LSPD |
-| 19 | 95 | $36.11 | [Chart](https://www.tradingview.com/chart/?symbol=SLB) | Schlumberger Limited | SLB |
-| 16 | 94 | $52.63 | [Chart](https://www.tradingview.com/chart/?symbol=ERX) | Direxion Daily Energy Bull 2X Shares | ERX |
-| 23 | 94 | $28.74 | [Chart](https://www.tradingview.com/chart/?symbol=AGIO) | Agios Pharmaceuticals, Inc. | AGIO |
-| 7 | 93 | $10.15 | [Chart](https://www.tradingview.com/chart/?symbol=HLIT) | Harmonic Inc | HLIT |
-| 14 | 92 | $10.06 | [Chart](https://www.tradingview.com/chart/?symbol=MTAL) | MAC Copper Limited | MTAL |
+| 9 | 97 | $32.92 | [Chart](https://www.tradingview.com/chart/?symbol=MBIN) | Merchants Bancorp Common Stock | MBIN |
+| 12 | 97 | $29.26 | [Chart](https://www.tradingview.com/chart/?symbol=LEGN) | Legend Biotech Corporation American Depositary Shares | LEGN |
+| 19 | 97 | $35.94 | [Chart](https://www.tradingview.com/chart/?symbol=SLB) | Schlumberger Limited | SLB |
+| 4 | 96 | $14.55 | [Chart](https://www.tradingview.com/chart/?symbol=DQ) | Daqo New Energy Corp. American Depositary Shares (each representing 5 Ordinary Shares) | DQ |
+| 8 | 96 | $34.30 | [Chart](https://www.tradingview.com/chart/?symbol=TECS) | Direxion Daily Technology Bear 3x Shares | TECS |
+| 12 | 96 | $112.00 | [Chart](https://www.tradingview.com/chart/?symbol=A) | Agilent Technologies Inc. | A |
+| 11 | 95 | $22.23 | [Chart](https://www.tradingview.com/chart/?symbol=UCO) | ProShares Ultra Bloomberg Crude Oil | UCO |
+| 15 | 95 | $52.63 | [Chart](https://www.tradingview.com/chart/?symbol=ERX) | Direxion Daily Energy Bull 2X Shares | ERX |
+| 22 | 95 | $28.74 | [Chart](https://www.tradingview.com/chart/?symbol=AGIO) | Agios Pharmaceuticals, Inc. | AGIO |
+| 10 | 94 | $12.19 | [Chart](https://www.tradingview.com/chart/?symbol=APLE) | Apple Hospitality REIT, Inc. | APLE |
+| 14 | 94 | $12.21 | [Chart](https://www.tradingview.com/chart/?symbol=M) | Macy's Inc. | M |
+| 11 | 93 | $10.98 | [Chart](https://www.tradingview.com/chart/?symbol=ABR) | Arbor Realty Trust, Inc. | ABR |
+| 11 | 93 | $121.37 | [Chart](https://www.tradingview.com/chart/?symbol=BLDR) | Builders FirstSource, Inc. | BLDR |
+| 13 | 93 | $10.06 | [Chart](https://www.tradingview.com/chart/?symbol=MTAL) | MAC Copper Limited | MTAL |
+| 14 | 93 | $231.91 | [Chart](https://www.tradingview.com/chart/?symbol=OIH) | VanEck Oil Services ETF | OIH |
+| 8 | 92 | $10.15 | [Chart](https://www.tradingview.com/chart/?symbol=HLIT) | Harmonic Inc | HLIT |
+| 14 | 92 | $11.84 | [Chart](https://www.tradingview.com/chart/?symbol=WEN) | The Wendy's Company | WEN |
+| 16 | 92 | $68.97 | [Chart](https://www.tradingview.com/chart/?symbol=DD) | DuPont de Nemours, Inc. Common Stock | DD |
 | 12 | 91 | $16.25 | [Chart](https://www.tradingview.com/chart/?symbol=CHCT) | Community Healthcare Trust Incorporated Common Stock, $0.01 par value per share | CHCT |
-| 27 | 90 | $149.34 | [Chart](https://www.tradingview.com/chart/?symbol=MTN) | Vail Resorts, Inc. | MTN |
-| 21 | 87 | $51.21 | [Chart](https://www.tradingview.com/chart/?symbol=LW) | Lamb Weston Holdings, Inc. | LW |
+| 16 | 91 | $21.83 | [Chart](https://www.tradingview.com/chart/?symbol=SIRI) | Sirius XM Holdings,  Inc | SIRI |
+| 26 | 91 | $149.34 | [Chart](https://www.tradingview.com/chart/?symbol=MTN) | Vail Resorts, Inc. | MTN |
+| 19 | 89 | $79.44 | [Chart](https://www.tradingview.com/chart/?symbol=COO) | The Cooper Companies, Inc. Common Stock | COO |
 | 16 | 86 | $84.05 | [Chart](https://www.tradingview.com/chart/?symbol=WHR) | Whirlpool Corp. | WHR |
 | 19 | 86 | $19.50 | [Chart](https://www.tradingview.com/chart/?symbol=AAT) | AMERICAN ASSETS TRUST, INC. | AAT |
+| 29 | 86 | $25.17 | [Chart](https://www.tradingview.com/chart/?symbol=RCI) | Rogers Communications, Inc. | RCI |
+| 23 | 85 | $74.89 | [Chart](https://www.tradingview.com/chart/?symbol=IFF) | International Flavors & Fragrances Inc. | IFF |
+| 23 | 84 | $117.74 | [Chart](https://www.tradingview.com/chart/?symbol=NUE) | Nucor Corporation | NUE |
+| 25 | 84 | $20.47 | [Chart](https://www.tradingview.com/chart/?symbol=BITI) | ProShares Short Bitcoin ETF | BITI |
 | 25 | 84 | $13.06 | [Chart](https://www.tradingview.com/chart/?symbol=DBO) | Invesco DB Oil Fund | DBO |
-| 31 | 84 | $31.15 | [Chart](https://www.tradingview.com/chart/?symbol=ZSL) | ProShares UltraShort Silver | ZSL |
+| 26 | 84 | $50.63 | [Chart](https://www.tradingview.com/chart/?symbol=LW) | Lamb Weston Holdings, Inc. | LW |
+| 21 | 83 | $10.58 | [Chart](https://www.tradingview.com/chart/?symbol=AVO) | Mission Produce, Inc. Common Stock | AVO |
+| 22 | 83 | $16.42 | [Chart](https://www.tradingview.com/chart/?symbol=QYLD) | Global X Funds Global X NASDAQ-100 Covered Call ETF | QYLD |
 | 22 | 83 | $10.10 | [Chart](https://www.tradingview.com/chart/?symbol=CION) | CION Investment Corporation | CION |
-| 22 | 82 | $10.58 | [Chart](https://www.tradingview.com/chart/?symbol=AVO) | Mission Produce, Inc. Common Stock | AVO |
-| 26 | 81 | $31.08 | [Chart](https://www.tradingview.com/chart/?symbol=LEGN) | Legend Biotech Corporation American Depositary Shares | LEGN |
-| 27 | 79 | $112.37 | [Chart](https://www.tradingview.com/chart/?symbol=LEN) | Lennar Corporation Class A | LEN |
-| 22 | 78 | $16.42 | [Chart](https://www.tradingview.com/chart/?symbol=QYLD) | Global X Funds Global X NASDAQ-100 Covered Call ETF | QYLD |
+| 25 | 82 | $232.12 | [Chart](https://www.tradingview.com/chart/?symbol=HUM) | Humana Inc. | HUM |
+| 30 | 82 | $34.62 | [Chart](https://www.tradingview.com/chart/?symbol=CPB) | The Campbell's Company Common Stock | CPB |
+| 23 | 81 | $60.83 | [Chart](https://www.tradingview.com/chart/?symbol=BOIL) | ProShares Ultra Bloomberg Natural Gas | BOIL |
+| 25 | 81 | $14.47 | [Chart](https://www.tradingview.com/chart/?symbol=HR) | Healthcare Realty Trust Incorporated | HR |
+| 26 | 80 | $26.12 | [Chart](https://www.tradingview.com/chart/?symbol=CHX) | ChampionX Corporation | CHX |
+| 32 | 80 | $13.78 | [Chart](https://www.tradingview.com/chart/?symbol=BSM) | Black Stone Minerals, L.P. | BSM |
+| 22 | 79 | $26.07 | [Chart](https://www.tradingview.com/chart/?symbol=WY) | Weyerhaeuser Company | WY |
+| 31 | 79 | $111.09 | [Chart](https://www.tradingview.com/chart/?symbol=LEN) | Lennar Corporation Class A | LEN |
+| 26 | 78 | $31.37 | [Chart](https://www.tradingview.com/chart/?symbol=KRC) | Kilroy Realty Corp. | KRC |
 | 34 | 78 | $64.68 | [Chart](https://www.tradingview.com/chart/?symbol=ZROZ) | PIMCO 25+ Year Zero Coupon U.S. Treasury Index Exchange-Traded Fund | ZROZ |
+| 25 | 77 | $114.96 | [Chart](https://www.tradingview.com/chart/?symbol=EOG) | EOG Resources, Inc. | EOG |
 | 29 | 77 | $28.20 | [Chart](https://www.tradingview.com/chart/?symbol=BNO) | United States Brent Oil Fund, LP | BNO |
 | 29 | 77 | $10.71 | [Chart](https://www.tradingview.com/chart/?symbol=SCS) | Steelcase, Inc. | SCS |
-| 33 | 77 | $135.70 | [Chart](https://www.tradingview.com/chart/?symbol=HES) | Hess Corporation | HES |
 | 39 | 77 | $59.78 | [Chart](https://www.tradingview.com/chart/?symbol=BMRN) | BioMarin Pharmaceuticals Inc | BMRN |
-| 24 | 76 | $31.74 | [Chart](https://www.tradingview.com/chart/?symbol=KRC) | Kilroy Realty Corp. | KRC |
-| 32 | 76 | $13.94 | [Chart](https://www.tradingview.com/chart/?symbol=BSM) | Black Stone Minerals, L.P. | BSM |
-| 35 | 76 | $25.43 | [Chart](https://www.tradingview.com/chart/?symbol=RCI) | Rogers Communications, Inc. | RCI |
+| 31 | 76 | $53.30 | [Chart](https://www.tradingview.com/chart/?symbol=GIS) | General Mills, Inc. | GIS |
+| 36 | 76 | $134.96 | [Chart](https://www.tradingview.com/chart/?symbol=HES) | Hess Corporation | HES |
 | 39 | 76 | $10.88 | [Chart](https://www.tradingview.com/chart/?symbol=LBTYA) | Liberty Global Ltd. Class A Common Shares | LBTYA |
-| 35 | 74 | $35.18 | [Chart](https://www.tradingview.com/chart/?symbol=CPB) | The Campbell's Company Common Stock | CPB |
-| 30 | 73 | $14.71 | [Chart](https://www.tradingview.com/chart/?symbol=HR) | Healthcare Realty Trust Incorporated | HR |
+| 30 | 74 | $25.20 | [Chart](https://www.tradingview.com/chart/?symbol=IRDM) | Iridium Communications Inc. | IRDM |
+| 35 | 74 | $24.88 | [Chart](https://www.tradingview.com/chart/?symbol=IPG) | The Interpublic Group of Companies, Inc. | IPG |
 | 37 | 73 | $35.40 | [Chart](https://www.tradingview.com/chart/?symbol=NSA) | National Storage Affiliates Trust | NSA |
 | 29 | 72 | $14.42 | [Chart](https://www.tradingview.com/chart/?symbol=BMEZ) | BlackRock Health Sciences Term Trust | BMEZ |
+| 30 | 72 | $226.04 | [Chart](https://www.tradingview.com/chart/?symbol=UNP) | Union Pacific Corp. | UNP |
+| 31 | 72 | $141.67 | [Chart](https://www.tradingview.com/chart/?symbol=CVX) | Chevron Corporation | CVX |
+| 32 | 72 | $94.47 | [Chart](https://www.tradingview.com/chart/?symbol=PCAR) | Paccar Inc | PCAR |
 | 31 | 70 | $10.77 | [Chart](https://www.tradingview.com/chart/?symbol=LADR) | LADDER CAPITAL CORP | LADR |
-| 37 | 68 | $10.55 | [Chart](https://www.tradingview.com/chart/?symbol=NMZ) | Nuveen Municipal High Income Opportunity Fund | NMZ |
+| 34 | 70 | $51.61 | [Chart](https://www.tradingview.com/chart/?symbol=TSCO) | Tractor Supply Co | TSCO |
+| 36 | 69 | $75.66 | [Chart](https://www.tradingview.com/chart/?symbol=OMC) | Omnicom Group Inc. | OMC |
 | 38 | 68 | $11.24 | [Chart](https://www.tradingview.com/chart/?symbol=MQY) | Blackrock Muni Yield Quality Fund, Inc | MQY |
-| 33 | 67 | $25.66 | [Chart](https://www.tradingview.com/chart/?symbol=IRDM) | Iridium Communications Inc. | IRDM |
-| 38 | 64 | $11.99 | [Chart](https://www.tradingview.com/chart/?symbol=NVG) | Nuveen AMT-Free Municipal Credit Income Fund | NVG |
+| 38 | 67 | $10.55 | [Chart](https://www.tradingview.com/chart/?symbol=NMZ) | Nuveen Municipal High Income Opportunity Fund | NMZ |
+| 37 | 65 | $158.38 | [Chart](https://www.tradingview.com/chart/?symbol=PG) | Procter & Gamble Company | PG |
 
 ## **Methodology**
 
